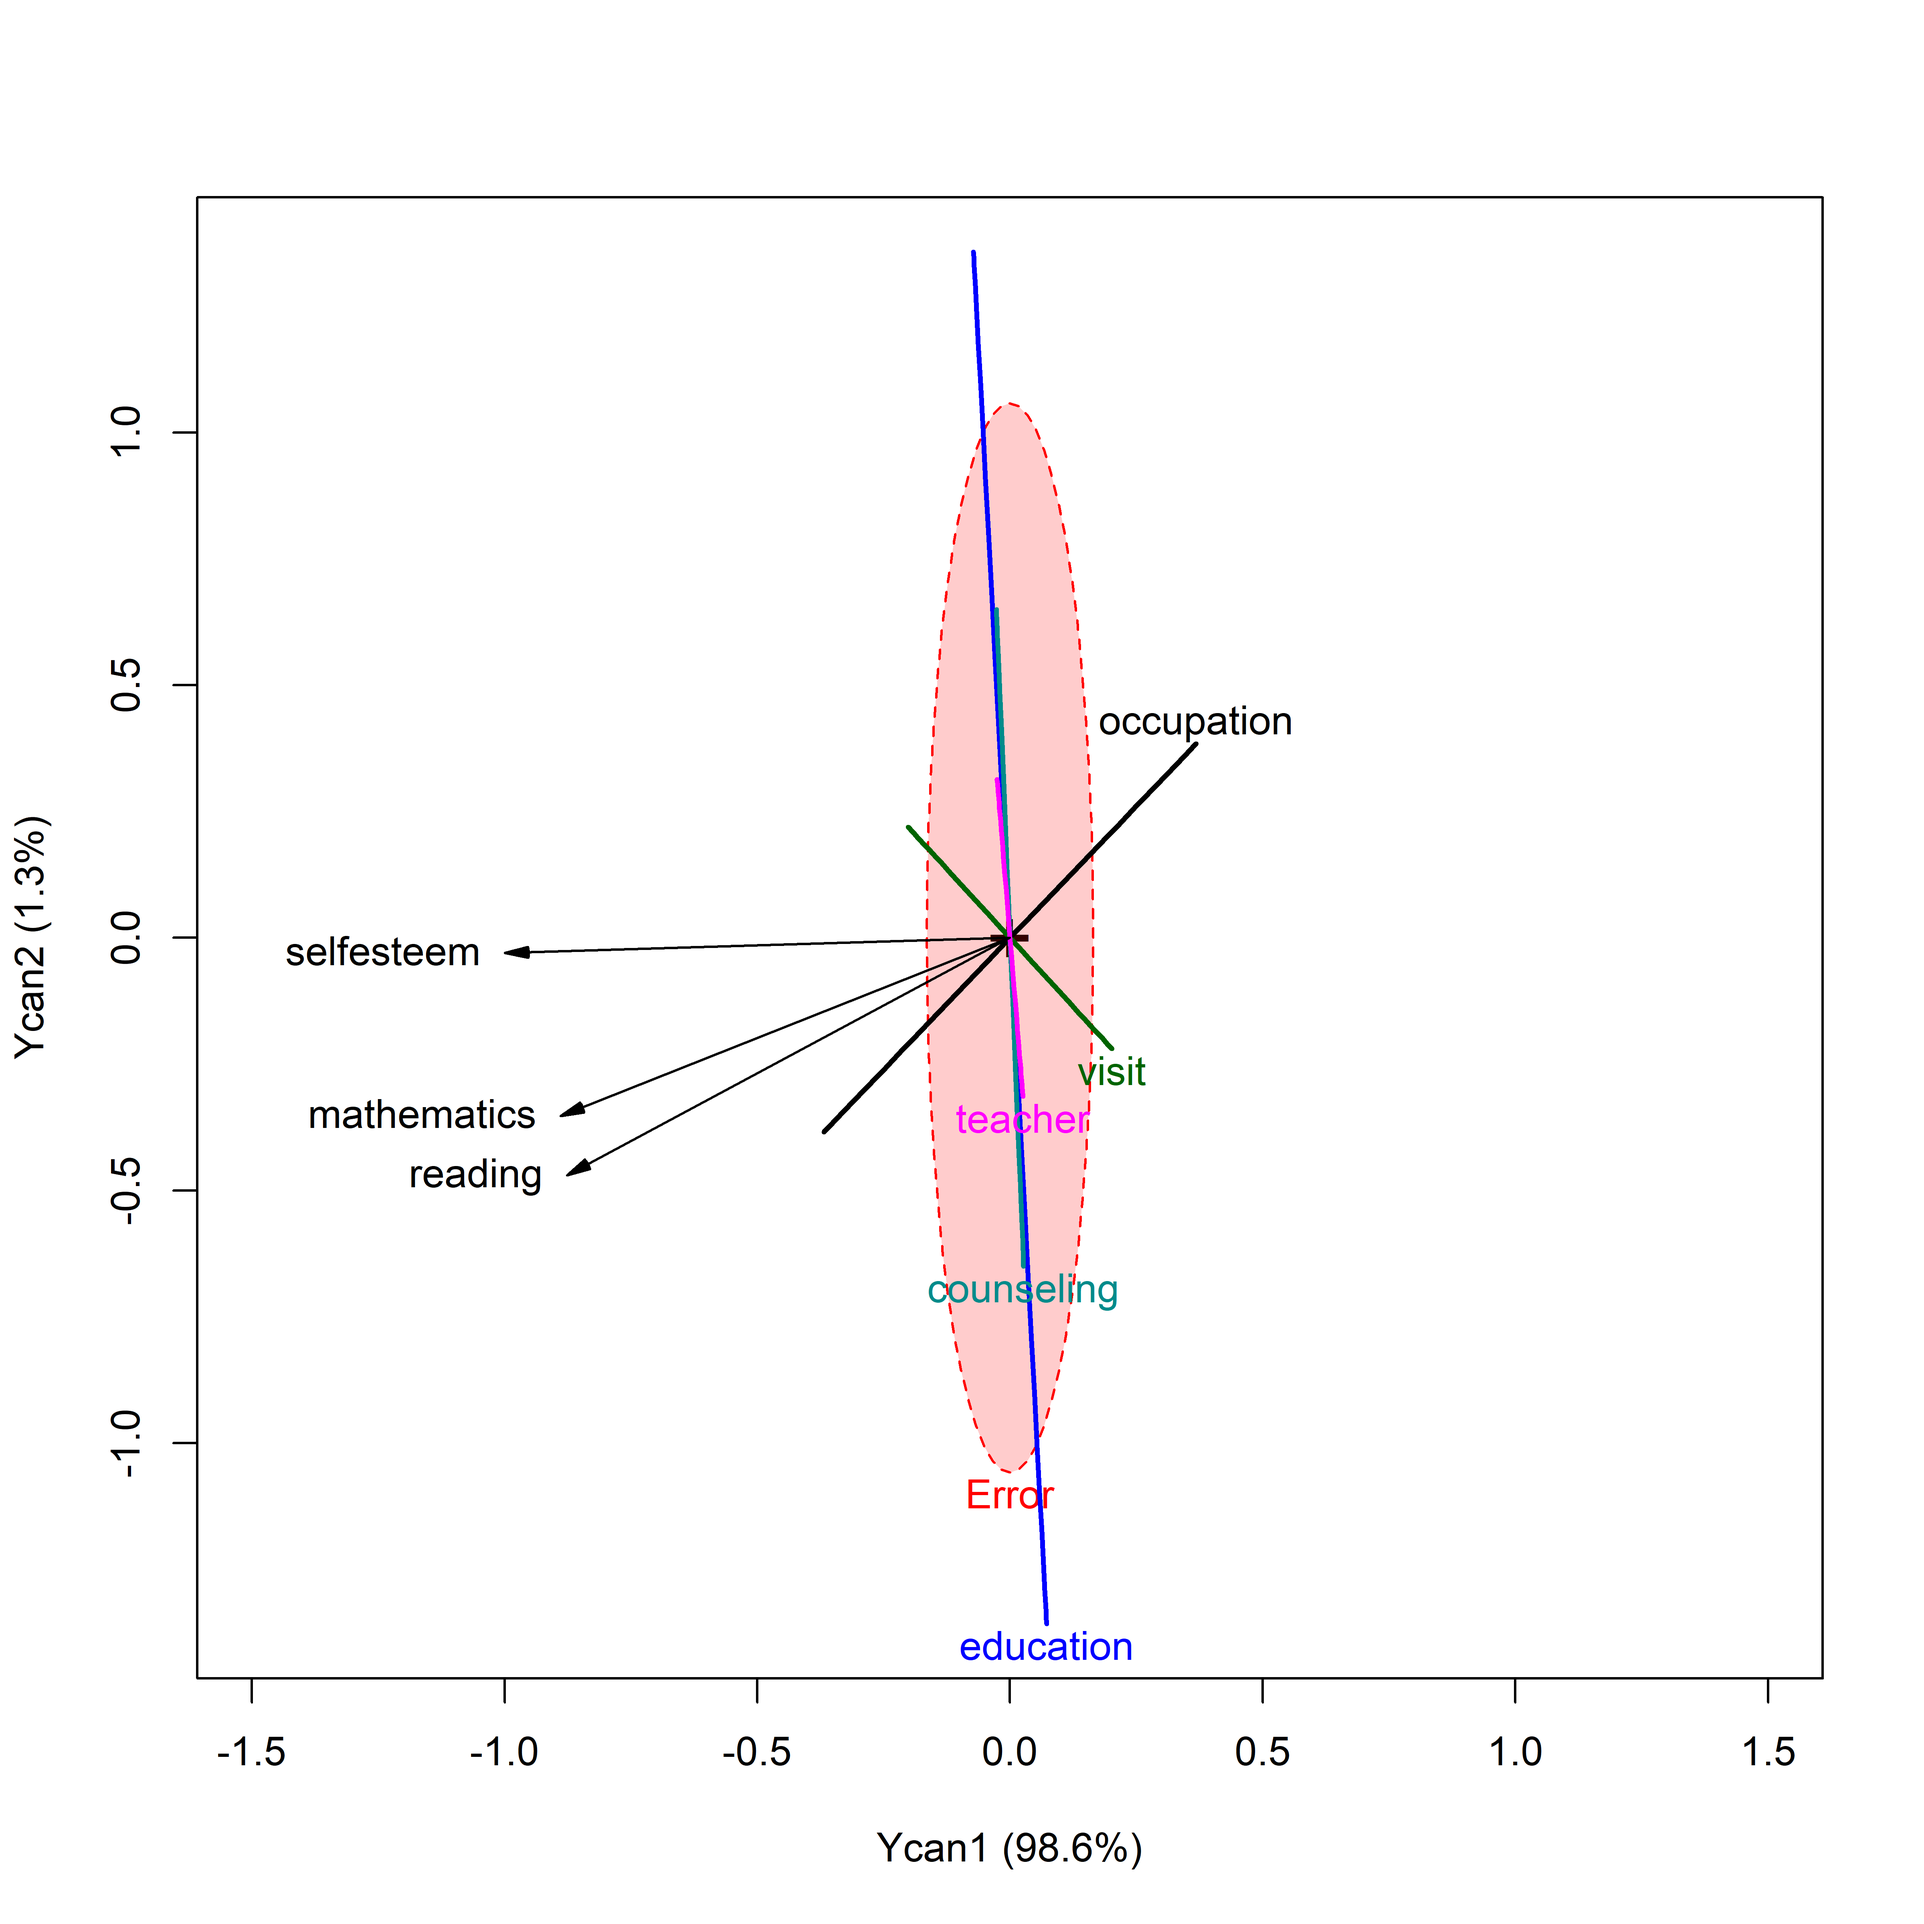
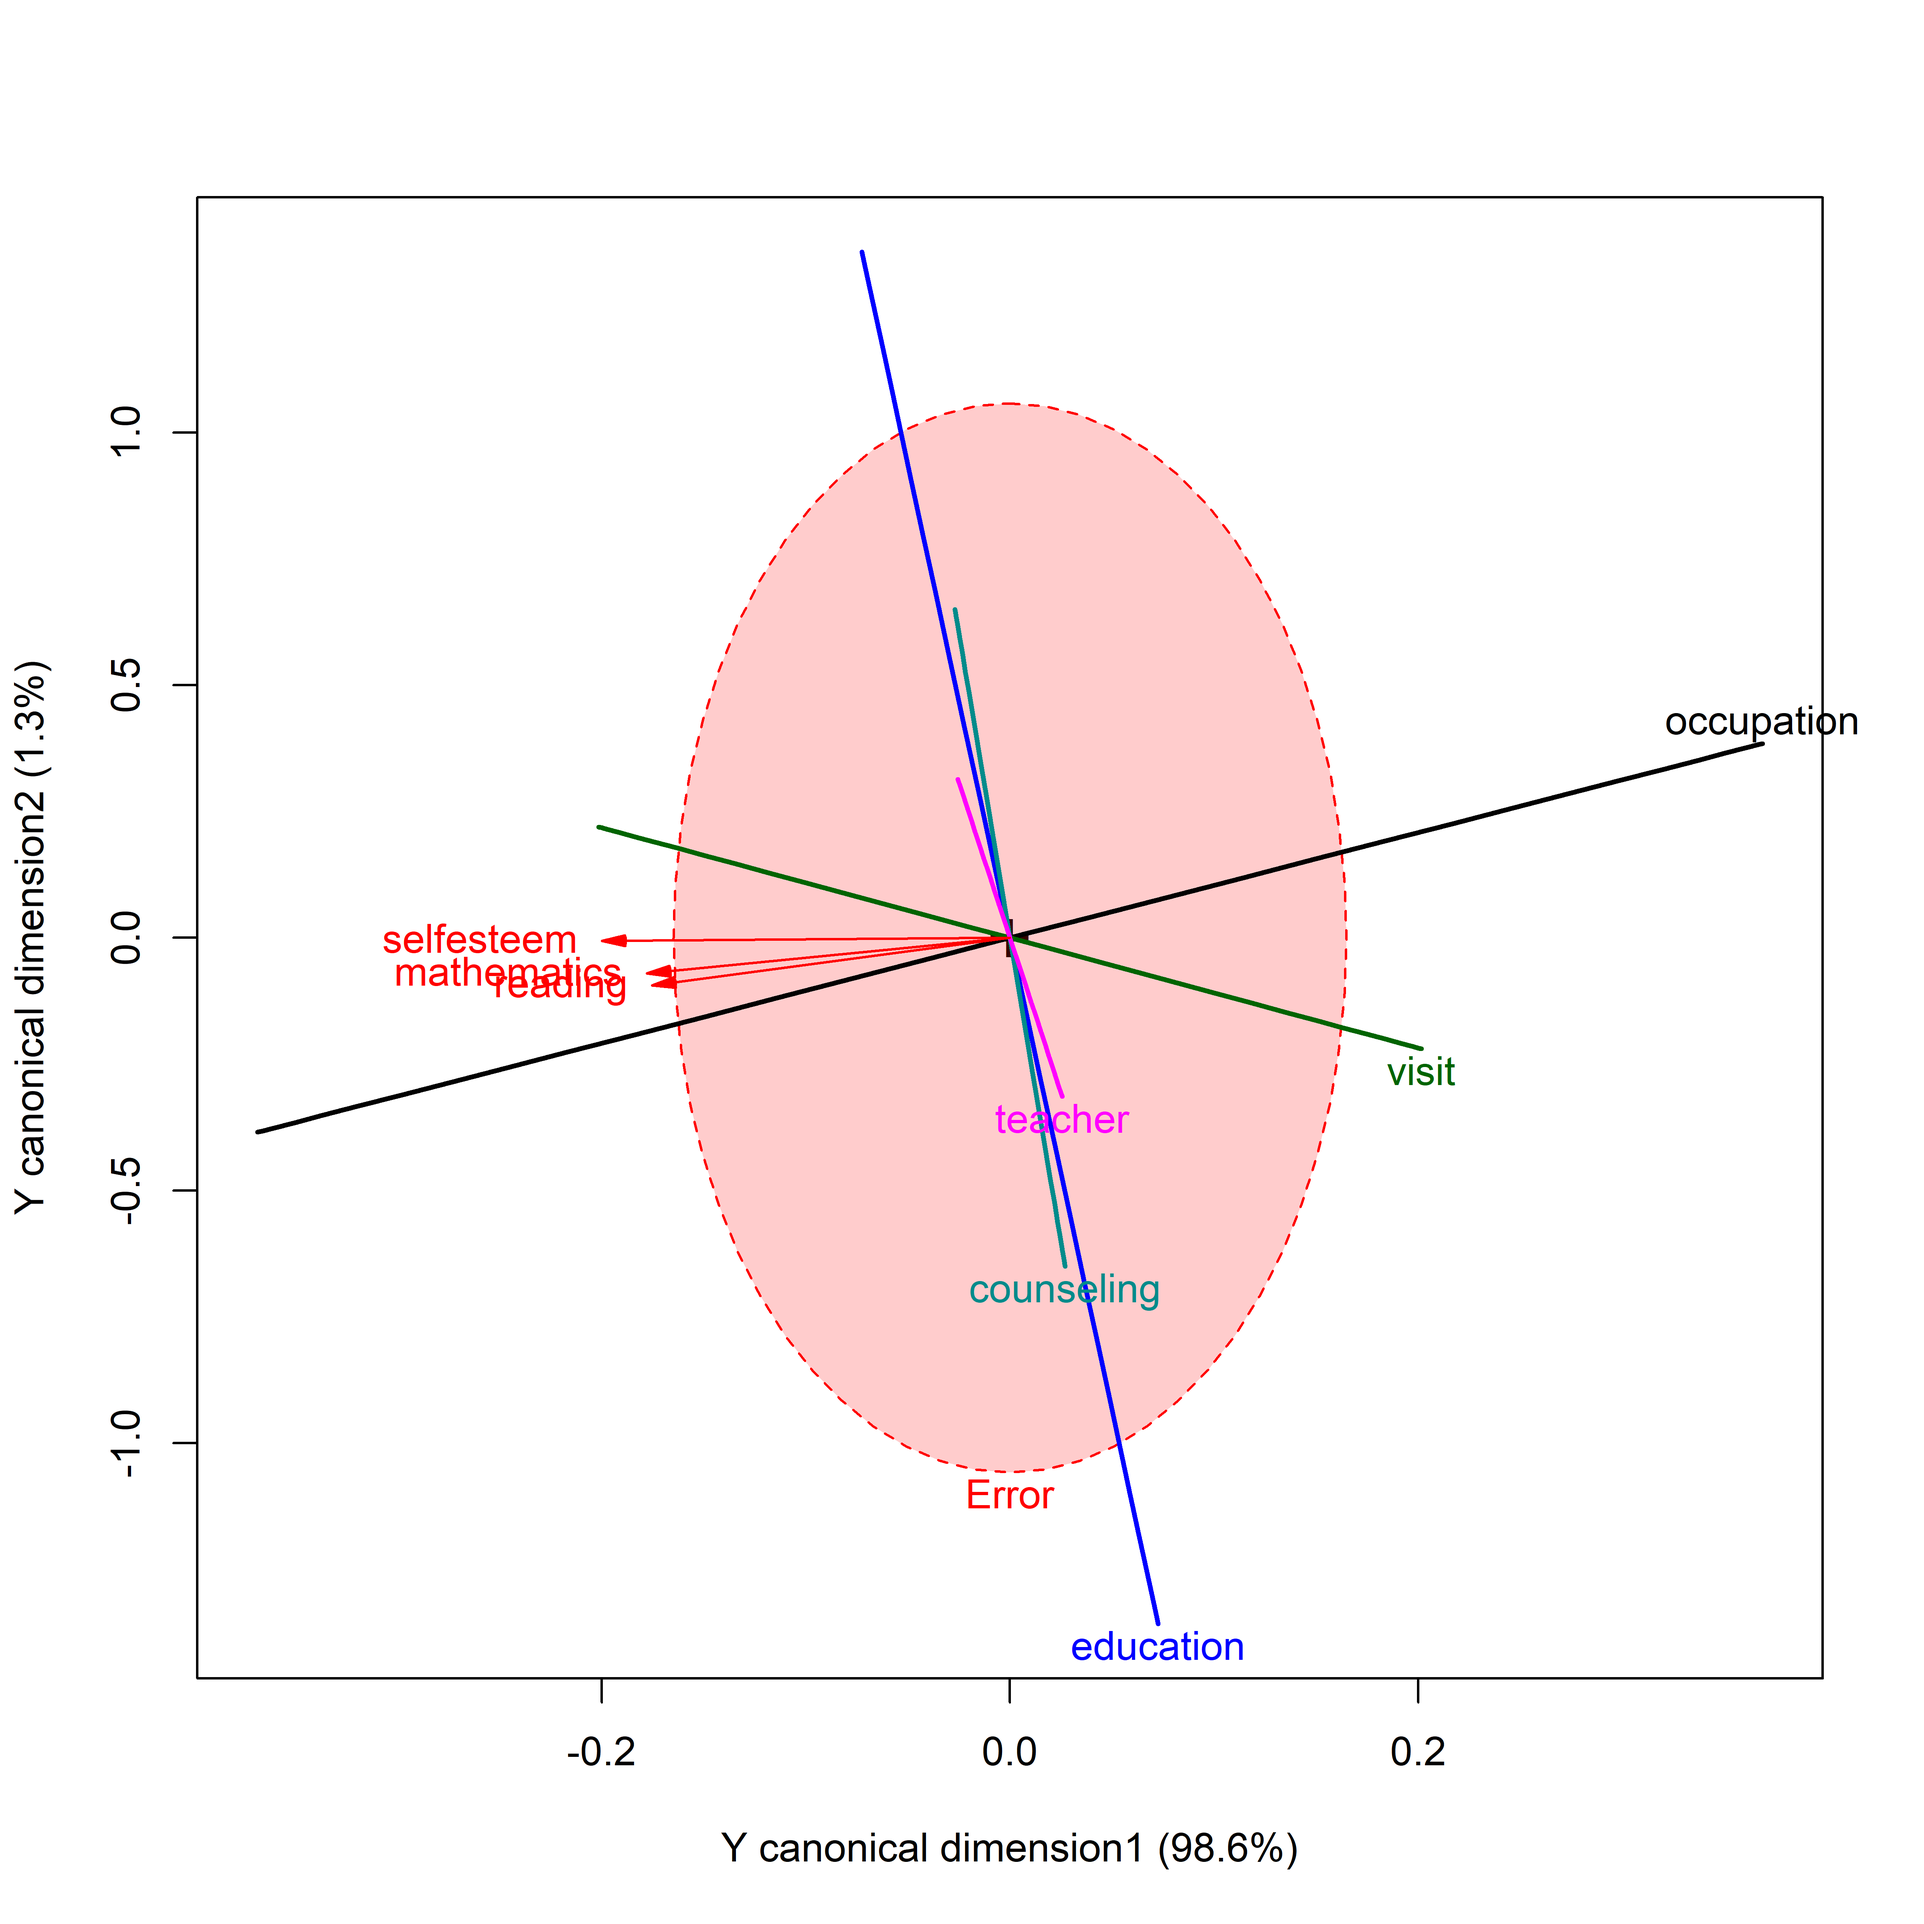
Ch11

diff --git a/docs/11-mlm-viz.html b/docs/11-mlm-viz.html
@@ -929,7 +929,7 @@ Figure&nbsp;11.10: HE plot for the simple model for the NLSY data fitting readin
 </div>
 </div>
 </div>
-<p>Fathers income and education are highly correlated in their effects on the outcome scores. From the angles in the plot, income is slightly more related to the math score, while education slightly more to the reading score.</p>
+<p>Fathers income and education are positively correlated in their effects on the outcome scores. From the angles in the plot, income is most related to the math score, while education is related to both, but slightly more to the reading score.</p>
 <p>The overall joint test for both predictors can then visualized as the test of the linear hypothesis <span class="math inline">\(\mathcal{H}_0 : \mathbf{B} = [\boldsymbol{\beta}_\text{income}, \boldsymbol{\beta}_\text{educ}] = \mathbf{0}\)</span>. For <code><a href="https://friendly.github.io/heplots/reference/heplot.html">heplot()</a></code>, we specify the names of the coefficients to be tested with the <code>hypotheses</code> argument.</p>
 <div class="cell" data-layout-align="center">
 <div class="sourceCode" id="cb17" data-source-line-numbers="nil" data-code-line-numbers="nil"><pre class="downlit sourceCode r code-with-copy"><code class="sourceCode R"><span><span class="va">coefs</span> <span class="op">&lt;-</span> <span class="fu"><a href="https://rdrr.io/r/base/colnames.html">rownames</a></span><span class="op">(</span><span class="fu"><a href="https://rdrr.io/r/stats/coef.html">coef</a></span><span class="op">(</span><span class="va">NLSY.mod1</span><span class="op">)</span><span class="op">)</span><span class="op">[</span><span class="op">-</span><span class="fl">1</span><span class="op">]</span> <span class="op">|&gt;</span> <span class="fu"><a href="https://rdrr.io/r/base/print.html">print</a></span><span class="op">(</span><span class="op">)</span></span>
@@ -954,8 +954,9 @@ Figure&nbsp;11.11: HE plot adding the <span class="math inline">\(\mathbf{H}\)</
 </div>
 </section></section><section id="sec-cancor" class="level2" data-number="11.9"><h2 data-number="11.9" class="anchored" data-anchor-id="sec-cancor">
 <span class="header-section-number">11.9</span> Canonical correlation analysis</h2>
-<p>Just as we saw for MANOVA designs, a canonical analysis for multivariate regression involves finding a low-D view of the relations between predictors and outcomes that maximally explains their relations in terms of linear combinations of each. That is, the goal is to find weights for one set of variables, say <span class="math inline">\(\mathbf{X}\)</span> <em>not</em> to predict each of the other set <span class="math inline">\(\mathbf{Y} =[\mathbf{y}_1, \mathbf{y}_2, \dots]\)</span> <em>individually</em>, but rather to also find weights for the <span class="math inline">\(\mathbf{y}\)</span>s which is most highly correlated with the linear combination of the <span class="math inline">\(\mathbf{x}\)</span>s. For a thorough treatment of this topic, see <span class="citation" data-cites="Gittins:85">Gittins (<a href="95-references.html#ref-Gittins:85" role="doc-biblioref">1985</a>)</span>.</p>
-<p>Geometrically, these linear combinations are vectors representing projections in the observation space of the <span class="math inline">\(x\)</span> and <span class="math inline">\(y\)</span> variables, and canonical correlation analysis can also be thought of as minimizing the angle between these vectors or maximizing the cosine of this angle. This is illustrated in <a href="#fig-cancor-diagram" class="quarto-xref">Figure&nbsp;<span>11.12</span></a>.</p>
+<p>Just as we saw for MANOVA designs, a canonical analysis for multivariate regression involves finding a low-D view of the relations between predictors and outcomes that maximally explains their relations in terms of linear combinations of each. That is, the goal is to find weights for one set of variables, say <span class="math inline">\(\mathbf{X}\)</span> <em>not</em> to predict each of the other set <span class="math inline">\(\mathbf{Y} =[\mathbf{y}_1, \mathbf{y}_2, \dots]\)</span> <em>individually</em>, but rather to also find weights for the <span class="math inline">\(\mathbf{y}\)</span>s which is most highly correlated with the linear combination of the <span class="math inline">\(\mathbf{x}\)</span>s.</p>
+<p>In this sense, canonical correlation analysis (CCA) is <em>symmetric</em> in the <span class="math inline">\(x\)</span> and <span class="math inline">\(y\)</span> variables: the <span class="math inline">\(y\)</span> set is not considered responses. Rather the goal is simply to explain the correlations between the two sets. For a thorough treatment of this topic, see <span class="citation" data-cites="Gittins:85">Gittins (<a href="95-references.html#ref-Gittins:85" role="doc-biblioref">1985</a>)</span>.</p>
+<p>Geometrically, these linear combinations are vectors representing projections in the observation space of the <span class="math inline">\(x\)</span> and <span class="math inline">\(y\)</span> variables, and CCA can also be thought of as minimizing the angle between these vectors or maximizing the cosine of this angle. This is illustrated in <a href="#fig-cancor-diagram" class="quarto-xref">Figure&nbsp;<span>11.12</span></a>.</p>
 <div class="cell" data-layout-align="center">
 <div class="cell-output-display">
 <div id="fig-cancor-diagram" class="quarto-float quarto-figure quarto-figure-center anchored" data-fig-align="center">
@@ -963,7 +964,7 @@ Figure&nbsp;11.11: HE plot adding the <span class="math inline">\(\mathbf{H}\)</
 <img src="images/cancor-diagram-udi.png" class="img-fluid quarto-figure quarto-figure-center figure-img" style="width:100.0%">
 </div>
 <figcaption class="quarto-float-caption-bottom quarto-float-caption quarto-float-fig" id="fig-cancor-diagram-caption-0ceaefa1-69ba-4598-a22c-09a6ac19f8ca">
-Figure&nbsp;11.12: Diagram illustrating canonical correlation. For two <span class="math inline">\(y\)</span> variables, all linear combinations are vectors in their plane, and similarly for the <span class="math inline">\(x\)</span> variables. Maximizing the correlation between linear combinations of each is equivalent to making the angle <span class="math inline">\(\theta\)</span> between them as small as possible, or maximizing <span class="math inline">\(\cos({\theta})\)</span>, shown in the diagram at the right. The thick grey arrow indignates that the two planes should be overlaid at a common origin. <em>Source</em>: Re-drawn by Udi Alter following a Cross-Validated discussion by user ‘ttnphns’, https://bit.ly/4dgq2cp
+Figure&nbsp;11.12: Diagram illustrating canonical correlation. For two <span class="math inline">\(y\)</span> variables, all linear combinations are vectors in their plane, and similarly for the <span class="math inline">\(x\)</span> variables. Maximizing the correlation between linear combinations of each is equivalent to making the angle <span class="math inline">\(\phi\)</span> between them as small as possible, or maximizing <span class="math inline">\(\cos({\theta})\)</span>, shown in the diagram at the right. The thick grey arrow indignates that the two planes should be overlaid at a common origin. <em>Source</em>: Re-drawn by Udi Alter following a Cross-Validated discussion by user ‘ttnphns’, https://bit.ly/4dgq2cp
 </figcaption></figure>
 </div>
 </div>
@@ -1154,11 +1155,11 @@ Figure&nbsp;11.16: Plots of canonical scores on the first canonical dimension fo
 <p>Plots of canonical scores tell us of the strength of the canonical dimensions, but do not help interpreting the analysis in relation to the original variables. The HE plot version for canonical correlation analysis re-fits a multivariate regression model for the Y variables against the Xs, but substitutes the canonical scores for each, essentially projecting the data into canonical space.</p>
 <p><strong>TODO</strong>: Check out signs of structure coefs from <code><a href="https://friendly.github.io/candisc/reference/cancor.html">cancor()</a></code>. Would be better to reflect the vectors for <code>Ycan1</code>.</p>
 <div class="cell" data-layout-align="center">
-<div class="sourceCode" id="cb25" data-source-line-numbers="nil" data-code-line-numbers="nil"><pre class="downlit sourceCode r code-with-copy"><code class="sourceCode R"><span><span class="fu"><a href="https://friendly.github.io/heplots/reference/heplot.html">heplot</a></span><span class="op">(</span><span class="va">school.can2</span>, </span>
+<div class="sourceCode" id="cb25" data-source-line-numbers="nil" data-code-line-numbers="nil"><pre class="downlit sourceCode r code-with-copy"><code class="sourceCode R"><span><span class="fu"><a href="https://friendly.github.io/heplots/reference/heplot.html">heplot</a></span><span class="op">(</span><span class="va">school.can2</span>,</span>
 <span>       fill <span class="op">=</span> <span class="cn">TRUE</span>, fill.alpha <span class="op">=</span> <span class="fl">0.2</span>,</span>
-<span>       var.col <span class="op">=</span> <span class="st">"black"</span>,</span>
-<span>       xpd<span class="op">=</span><span class="cn">TRUE</span><span class="op">)</span></span>
-<span><span class="co">#&gt; Vector scale factor set to  1</span></span></code><button title="Copy to Clipboard" class="code-copy-button"><i class="bi"></i></button></pre></div>
+<span>       var.col <span class="op">=</span> <span class="st">"red"</span>, </span>
+<span>       asp <span class="op">=</span> <span class="cn">NA</span>, scale <span class="op">=</span> <span class="fl">0.2</span>,</span>
+<span>       prefix<span class="op">=</span><span class="st">"Y canonical dimension"</span><span class="op">)</span></span></code><button title="Copy to Clipboard" class="code-copy-button"><i class="bi"></i></button></pre></div>
 <div class="cell-output-display">
 <div id="fig-school-hecan" class="quarto-float quarto-figure quarto-figure-center anchored" width="70%" data-fig-align="center">
 <figure class="quarto-float quarto-float-fig figure"><div aria-describedby="fig-school-hecan-caption-0ceaefa1-69ba-4598-a22c-09a6ac19f8ca">
